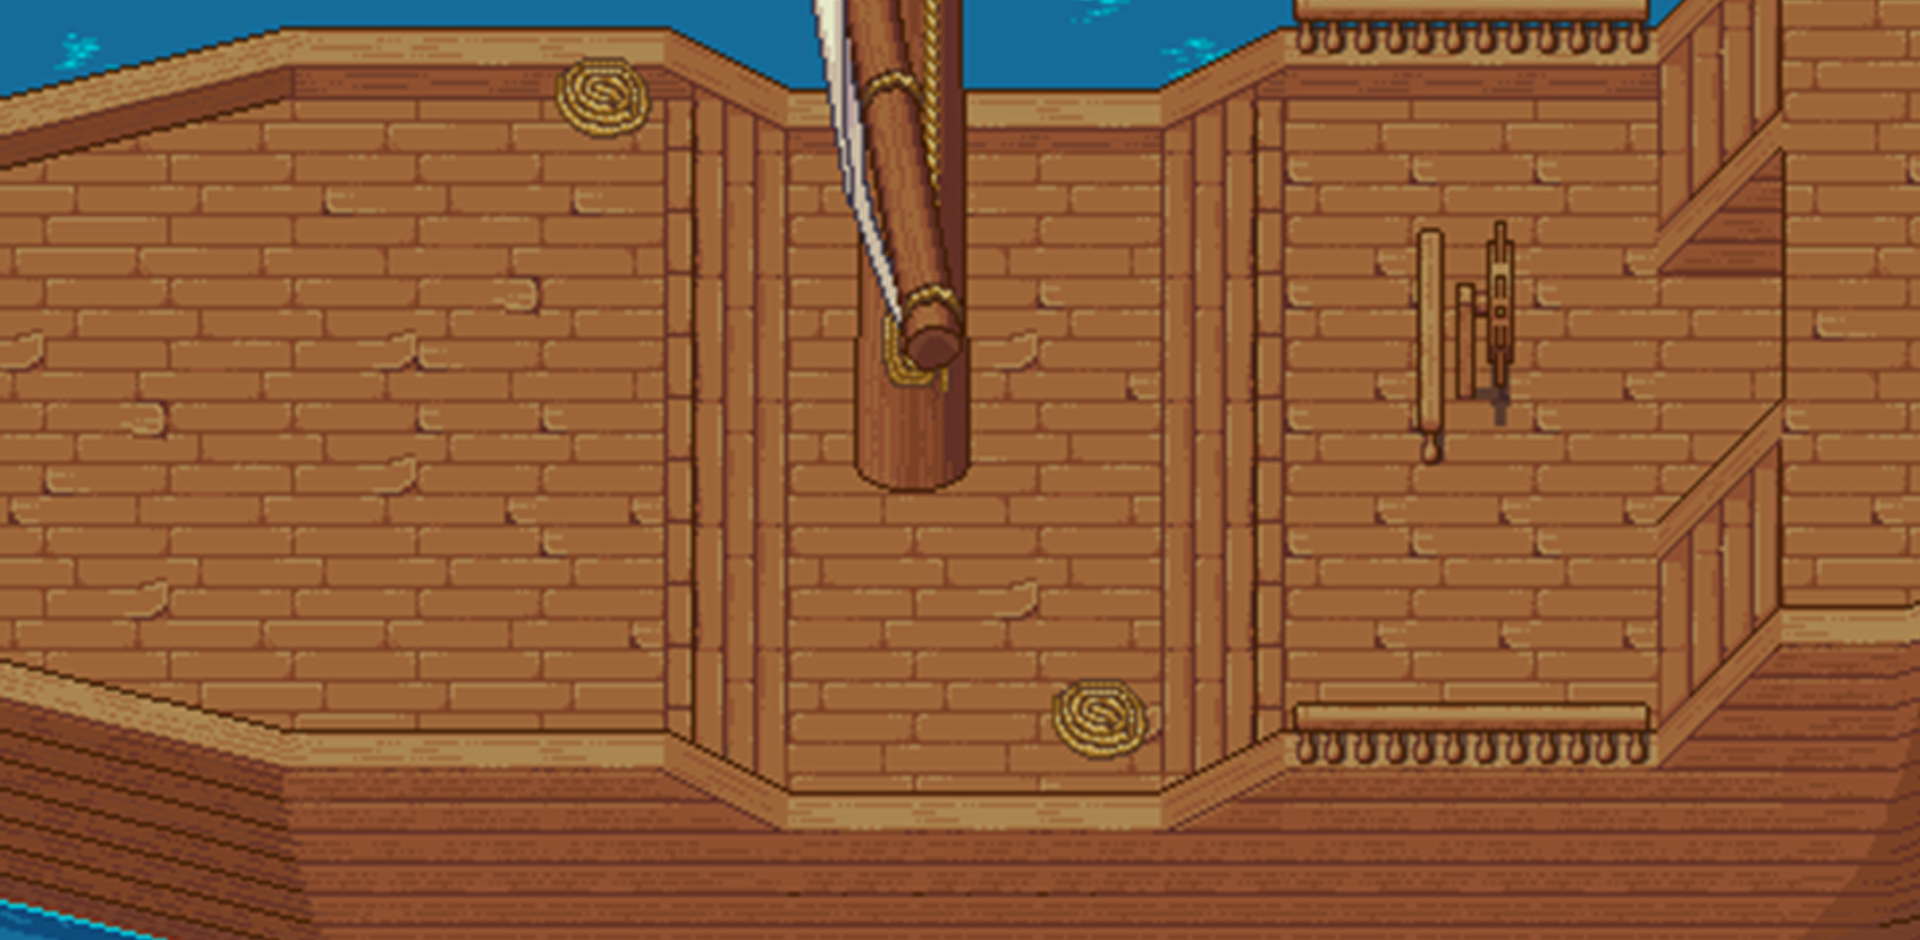
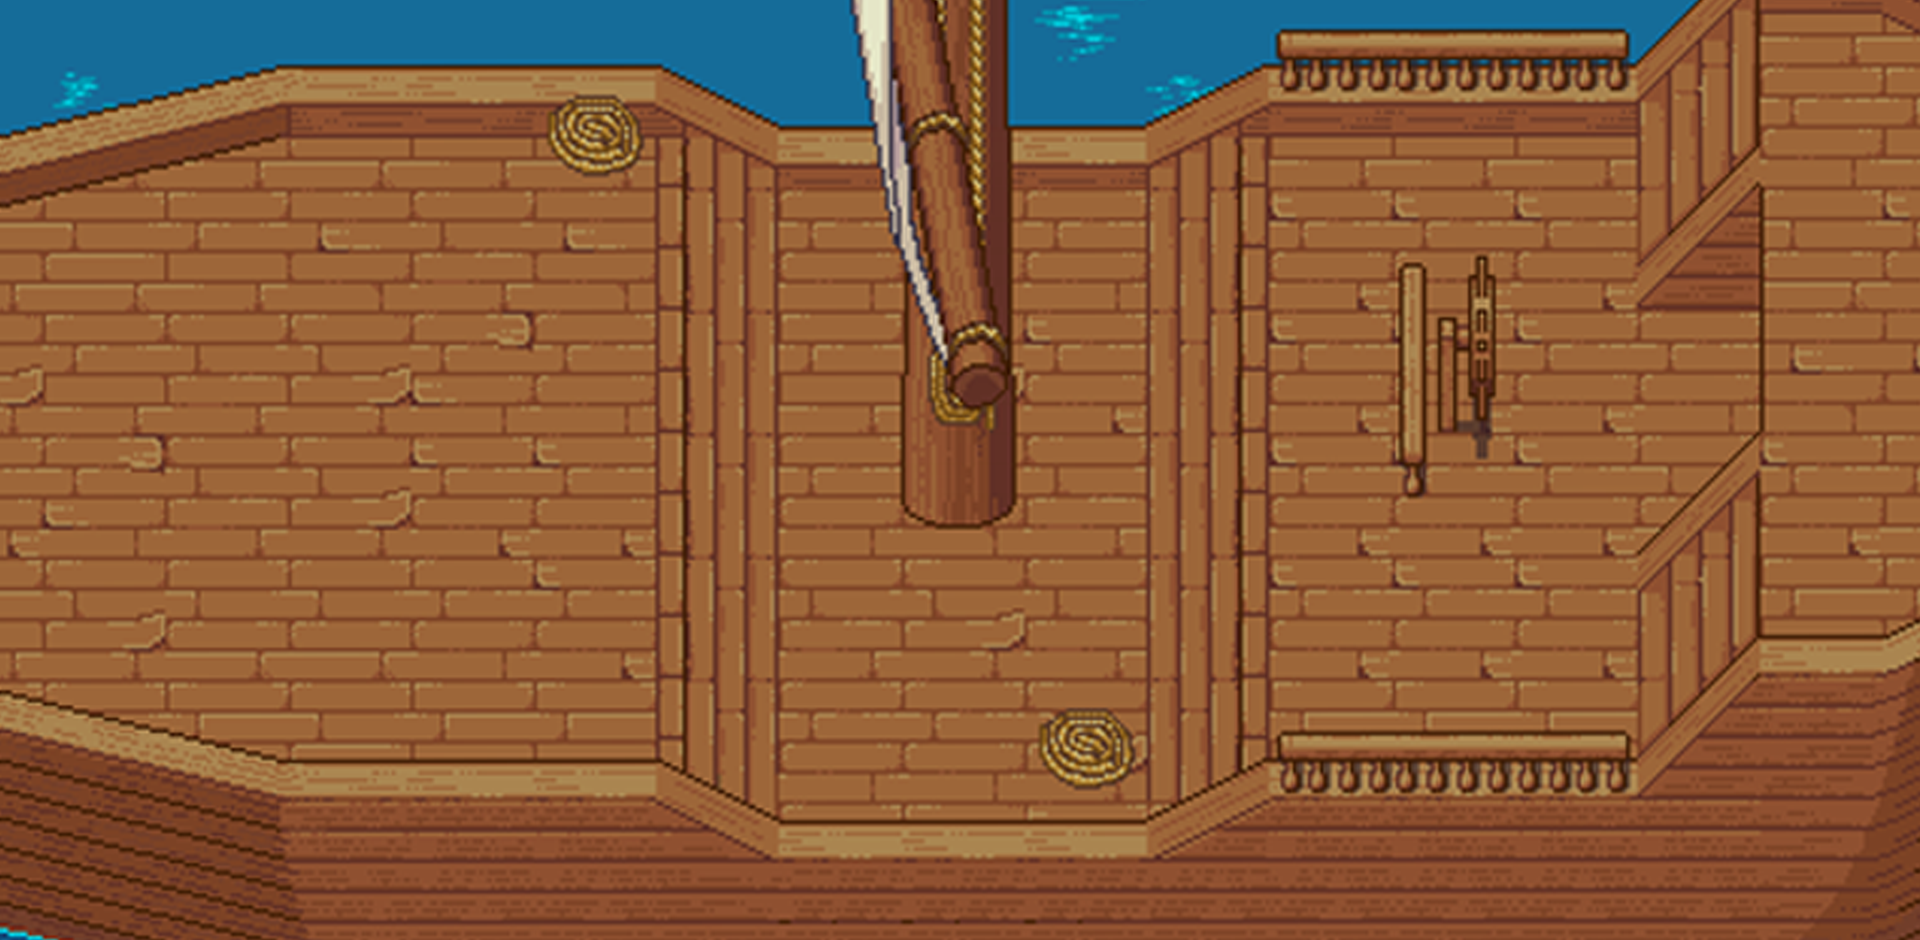
Feat: 토끼 자라 구분, 배경 추가

diff --git a/FE/src/components/game/GameRabbit.tsx b/FE/src/components/game/GameRabbit.tsx
@@ -4,6 +4,7 @@ import { RABBIT_MAP } from "../../constants/RabbitMap";
 import { RABBIT_STATE_MAP } from "../../constants/RabbitStateMap";
 
 export const GameRabbit = () => {
+  const myRabbitNo = 7;
   const [render, setRender] = useState(false);
   const [rabbit, setRabbit] = useState([
     {
@@ -12,7 +13,9 @@ export const GameRabbit = () => {
       state: RABBIT_STATE_MAP.STAND,
       isDie: false,
       dir: RABBIT_DIR_MAP.RIGHT,
+      userNo: 1,
       nickname: "Test",
+      job: 1,
     },
     {
       y: RABBIT_MAP[1].DEFAULT_Y,
@@ -20,7 +23,9 @@ export const GameRabbit = () => {
       state: RABBIT_STATE_MAP.STAND,
       isDie: false,
       dir: RABBIT_DIR_MAP.RIGHT,
+      userNo: 2,
       nickname: "Test",
+      job: 2,
     },
     {
       y: RABBIT_MAP[2].DEFAULT_Y,
@@ -28,7 +33,9 @@ export const GameRabbit = () => {
       state: RABBIT_STATE_MAP.STAND,
       isDie: false,
       dir: RABBIT_DIR_MAP.RIGHT,
+      userNo: 3,
       nickname: "Test",
+      job: 3,
     },
     {
       y: RABBIT_MAP[3].DEFAULT_Y,
@@ -36,7 +43,9 @@ export const GameRabbit = () => {
       state: RABBIT_STATE_MAP.STAND,
       isDie: false,
       dir: RABBIT_DIR_MAP.RIGHT,
+      userNo: 4,
       nickname: "Test",
+      job: 4,
     },
     {
       y: RABBIT_MAP[4].DEFAULT_Y,
@@ -44,7 +53,9 @@ export const GameRabbit = () => {
       state: RABBIT_STATE_MAP.STAND,
       isDie: false,
       dir: RABBIT_DIR_MAP.LEFT,
+      userNo: 5,
       nickname: "Test",
+      job: 5,
     },
     {
       y: RABBIT_MAP[5].DEFAULT_Y,
@@ -52,7 +63,9 @@ export const GameRabbit = () => {
       state: RABBIT_STATE_MAP.STAND,
       isDie: false,
       dir: RABBIT_DIR_MAP.LEFT,
+      userNo: 6,
       nickname: "Test",
+      job: 6,
     },
     {
       y: RABBIT_MAP[6].DEFAULT_Y,
@@ -60,7 +73,9 @@ export const GameRabbit = () => {
       state: RABBIT_STATE_MAP.STAND,
       isDie: false,
       dir: RABBIT_DIR_MAP.LEFT,
+      userNo: 7,
       nickname: "Test",
+      job: 7,
     },
     {
       y: RABBIT_MAP[7].DEFAULT_Y,
@@ -68,7 +83,9 @@ export const GameRabbit = () => {
       state: RABBIT_STATE_MAP.STAND,
       isDie: false,
       dir: RABBIT_DIR_MAP.LEFT,
+      userNo: 8,
       nickname: "Test",
+      job: 2,
     },
   ]);
   const center = {
@@ -107,16 +124,18 @@ export const GameRabbit = () => {
   };
 
   return (
-    <div className="absolute top-[200px] w-[800px] h-[354px] ">
+    <div className="absolute top-[200px] w-[800px] h-[354px]">
       {RABBIT_MAP.map((item, index) => (
-        <div className={`relative ${rabbit[index].y} ${rabbit[index].x} transition-top duration-[2000ms]`}>
+        <div className={`relative ${rabbit[index].y} ${rabbit[index].x} transition-top duration-[2000ms]`} key={index}>
           <img
             className={`absolute w-[120px] h-[120px] ${rabbit[index].dir === 0 && "scale-x-[-1]"}`}
             src={item.IMG[rabbit[index].state]}
             onClick={() => onMoveCenter(index)}
           />
           <p
-            className="absolute text-white font-bold top-[0px] text-center w-[120px] drop-shadow-stroke-black-sm"
+            className={`absolute ${
+              rabbit[myRabbitNo].job === 2 && rabbit[index].job === 2 ? "text-red-400" : "text-white"
+            } font-bold top-[0px] text-center w-[120px] drop-shadow-stroke-black-sm`}
             onClick={() => onMoveReset(index)}
           >
             {rabbit[index].nickname}

diff --git a/FE/src/layouts/GameLayout.tsx b/FE/src/layouts/GameLayout.tsx
@@ -1,6 +1,6 @@
 import { useState } from "react";
-import gameBg1 from "../assets/img/gameBg2.gif";
-import gameBg2 from "../assets/img/gameBg2.png";
+import gameBg1 from "../assets/img/gameBg.gif";
+import gameBg2 from "../assets/img/gameBg.png";
 import { LayoutChildrenProps } from "../types/LayoutChildrenProps";
 
 export const GameLayout = ({ children }: LayoutChildrenProps) => {

diff --git a/FE/src/privateRoute/PrivateRoute.tsx b/FE/src/privateRoute/PrivateRoute.tsx
@@ -12,7 +12,7 @@ export function PrivateRoute({ requireAuth }: PrivateRouteProps): React.ReactEle
   const { accessToken } = useAccessTokenState();
 
   //FIXME: requireAuth
-  if (requireAuth) {
+  if (false) {
     // 인증이 반드시 필요한 페이지인 경우
     return accessToken ? <Outlet /> : <ForbiddenAuth />;
   } else {

diff --git a/FE/src/pages/Game.tsx b/FE/src/pages/Game.tsx
@@ -25,8 +25,8 @@ export const Game = () => {
       {viewVote && <GameVote />}
       <GameMenu onSetInfoOn={onSetInfoOn} />
       <GameChat />
-      <GameRabbit />
       <GameTimer onSetViewVote={onSetViewVote} />
+      <GameRabbit />
     </GameLayout>
   );
 };
